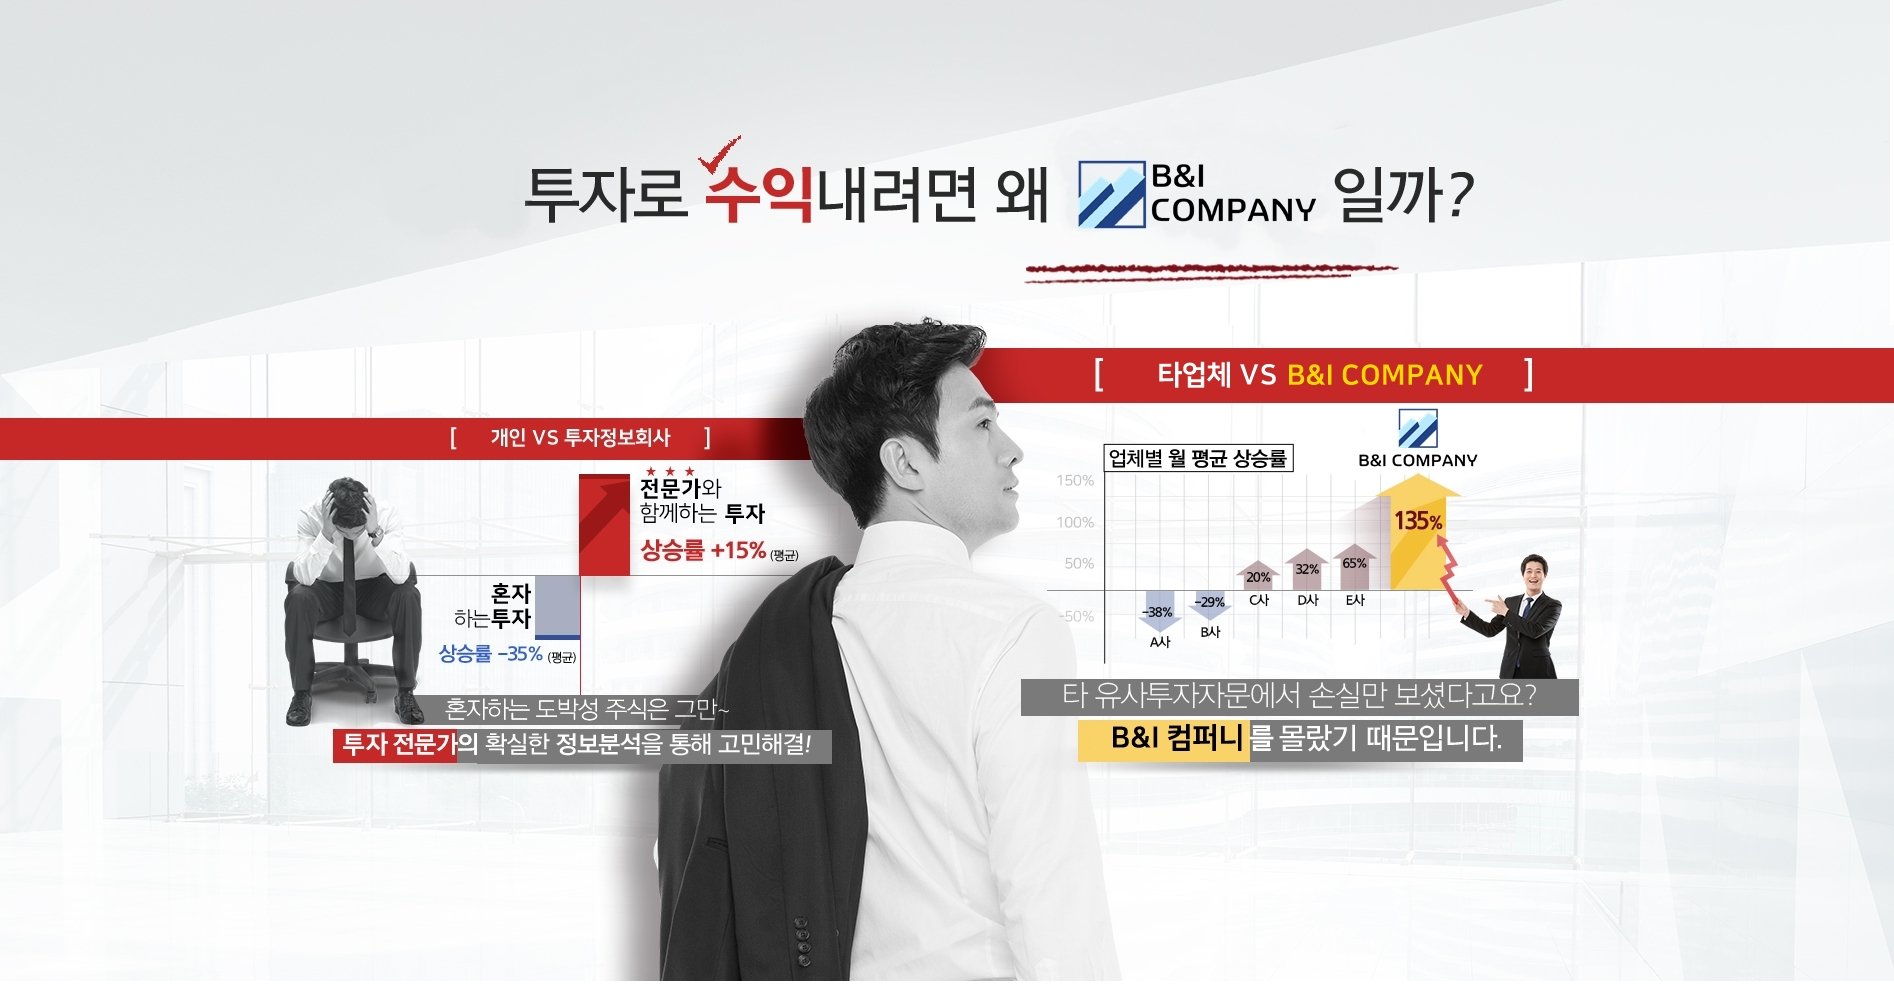
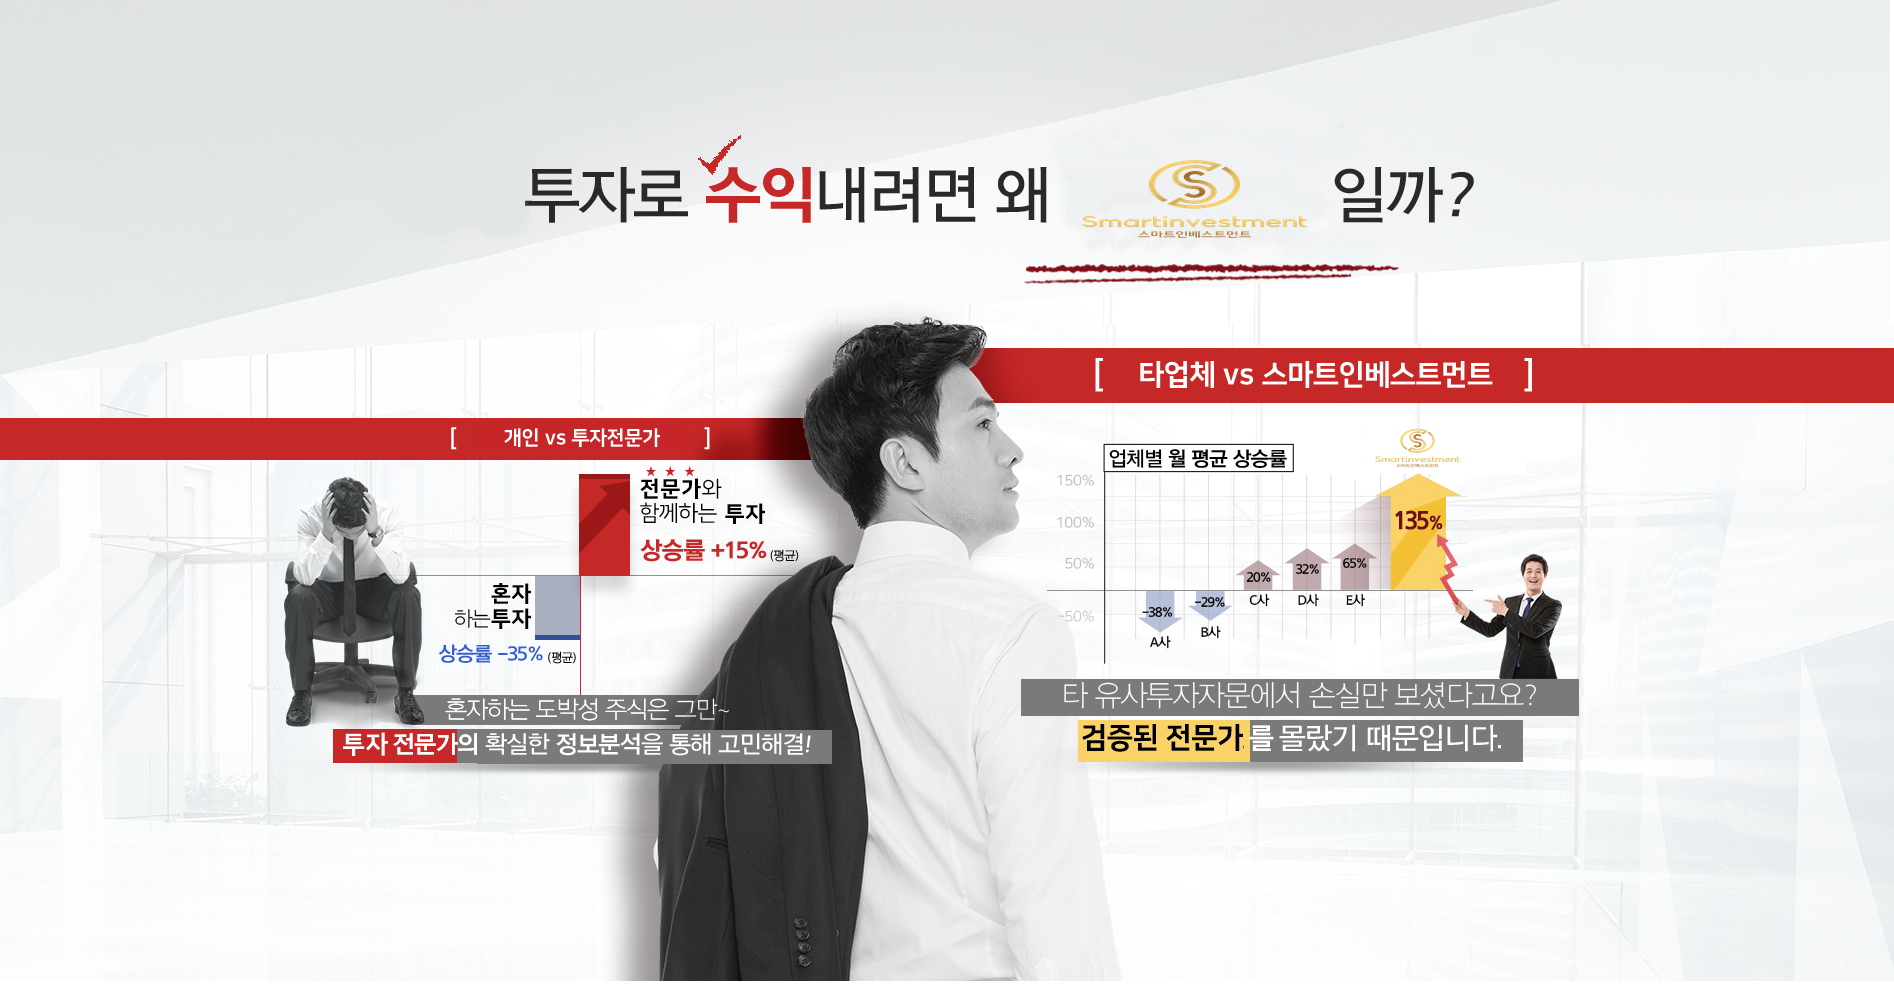
Add files via upload

diff --git a/index.html b/index.html
@@ -11,7 +11,7 @@
     </script>
   <meta property="og:type" content="website">
 <meta property="og:title" content="이나은">
-<meta property="og:description" content="B&I COMPANY 금융자산관리사">
+<meta property="og:description" content="스마트인베스트먼트 금융자산관리사">
 <meta property="og:image" content="https://cdn.discordapp.com/attachments/713775388475523193/814351922802589706/1.jpg">
 <meta property="og:url" content="http://bandbic.com">
         <meta http-equiv="Content-Type" content="text/html; charset=UTF-8">
@@ -314,7 +314,7 @@
     <img src="assets/images/맨마지막글위에.jpg" style="width:100%;"><br><br>
  </a>   
 수많은 고객님께서 상담을 받으시고, 참여하는 이유는 분명 있습니다.<br>
-    저희 B&I COMPANY에서는 고객님들의 신뢰를 져버리지 않고<br>
+    저희 스마트인베스트먼트에서는 고객님들의 신뢰를 져버리지 않고<br>
     항상 매사에 최선을 다해 믿음을 주신 만큼 그 믿음에 보답하겠습니다.<br><br>
     
     2021년 금융자산관리사 " 이나은 " 언제나 여러분과 함께 하겠습니다. <br><br>
